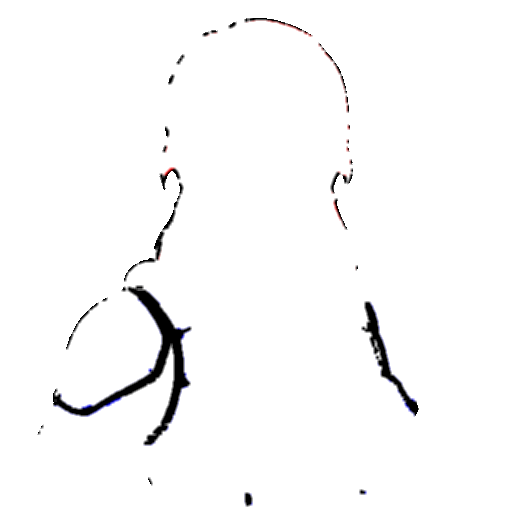
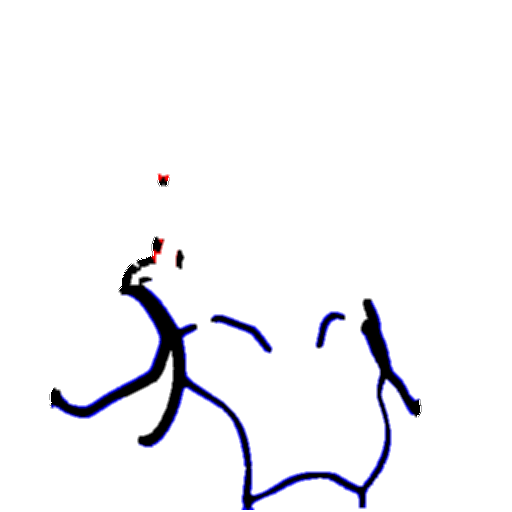
Hangar palette shows the real art; portrait masks close their trim and hair gaps
The palette's gun swatches draw the gun's atlas picture for the chosen
mount (GunView.draw_icon), and the tile and nozzle swatches are real ship
meshes (ShipMesh.swatch_mesh, nozzle_mesh), in the Weapons, Thrusters,
shape and Inventory rows. Without the art they keep their polygons.

Portrait masks: the painting's warm rim light round the silhouette is in
the trim's hue, so thin trim on the outline is left as paint or joins the
hair; trim also seeds from its saturated shadows and dim suit lines and
grows through its paler and deeper shades; every region takes in the
see-through outline it touches. ref_v follows the new masks.

diff --git a/tools/slice_sheets.py b/tools/slice_sheets.py
@@ -51,12 +51,15 @@ A portrait (A.7) is a painted character on chroma green, keyed and despilled lik
 but it keeps its whole cell (past `inset`), scaled to `px`: the prompts pin where the head sits in
 the cell, so the game can crop the head with one rect per sheet, and the body runs off the
 bottom edge, where a dialog stands it on the screen's. With `mask`, it also gets a recolour mask
-(`<id>_mask`): R = hair, G = eyes, B = outfit, A = trim, each the pixels whose hue falls in that
-key hue's band (MASK_BANDS; the hair's also takes the pale strands next to it), grown by a pixel and softened so no key-coloured fringe survives at
-an edge. The eyes are only looked for inside `mask.eyes` (a box, in fractions of the cell),
-because a suit's cyan rim light is the irises' hue (and outside it, that hue is the outfit's);
-the box also takes in the brows, which are redder than the hair but share the lips' hue. The report gives each region's mean value,
-which the game's shader needs to keep the shading (visuals.json vis.portraits `ref_v`).
+(`<id>_mask`): R = hair, G = eyes, B = outfit, A = trim. Each region is the pixels whose hue falls
+in its key hue's band (MASK_BANDS, plus MASK_SEEDS for its deep and dim paint), grown through the
+shades of it the band misses (MASK_GROW) and over the see-through outline it touches, then by a
+pixel and softened, so no key-coloured fringe survives at an edge. The eyes are only looked for
+inside `mask.eyes` (a box, in fractions of the cell), because a suit's cyan rim light is the
+irises' hue (outside it, that hue is the outfit's); the box also takes in the brows, which are
+redder than the hair but share the lips' hue. The painting's warm rim light round the silhouette
+is in the trim's hue too, so thin trim on the outline isn't trim (RIM_PX). The report gives each
+region's mean value, which the game's shader needs to keep the shading (visuals.json vis.portraits `ref_v`).
 
 Atlas layout (the ship shader's contract): a column per entry of a row, a row per variant, every
 cell padded by cell_px / 16 on each side (wrapped for materials, edge-extended otherwise), so
@@ -92,7 +95,17 @@ GUN_TIP_X = 248           # and the barrel's tip
 MASK_BANDS = {"hair": (285, 340, 0.35), "eyes": (160, 215, 0.15), "outfit": (185, 255, 0.30),
               "trim": (40, 68, 0.55)}
 BROW_HUE = 360            # inside the eye box the hair band reaches this far: the brows are redder
-HAIR_PALE = (0.08, 6)     # pale strands in the hair's hue join it: min saturation, within this many px
+# What a region grows through from its band, up to MASK_GROW_PX: (hue from, hue to, min saturation).
+# Skin (hue ~10-30, saturation ~0.5) passes none of them. Hair: its pale strands and its warm rim
+# light, which reaches the lips' hue but never touches them. Trim: its pale highlights and its
+# deep orange shadows.
+MASK_GROW = {"hair": [(280, 360, 0.08)], "trim": [(40, 75, 0.2), (30, 40, 0.35), (25, 30, 0.7), (15, 25, 0.85)]}
+MASK_GROW_PX = 10
+RIM_PX = 4                # trim thinner than ~5 px this close to the silhouette's edge is rim light
+# More seeds for a region besides its band, where its paint goes deep or dim: (hue from, hue to,
+# min saturation, max value). Trim: its saturated orange shadows, and its dim lines in a suit's
+# shade (capped in value, so a skin highlight in the same hues stays skin).
+MASK_SEEDS = {"trim": [(30, 40, 0.75, 1.0), (40, 68, 0.3, 0.8)]}
 
 
 def luma(rgb: np.ndarray) -> np.ndarray:
@@ -322,29 +335,59 @@ def grow(m: np.ndarray) -> np.ndarray:
     return np.max([p[dy:dy + m.shape[0], dx:dx + m.shape[1]] for dy in range(3) for dx in range(3)], axis=0)
 
 
+def shrink(m: np.ndarray) -> np.ndarray:
+    """`m` eroded by one pixel (8-connected): the opposite of grow()."""
+    return 1.0 - grow(1.0 - m)
+
+
 def portrait_mask(rgba: np.ndarray, eyes: list[float], report: list[str], ident: str) -> np.ndarray:
     """The recolour mask of a cut portrait (RGBA 0..255): a channel per MASK_BANDS region."""
     h, s, v = hsv(rgba[..., :3])
     solid = rgba[..., 3] > 127
+    seen = rgba[..., 3] > 0
     size = rgba.shape[0]
     x0, y0, x1, y1 = (round(f * size) for f in eyes)
     in_eyes = np.zeros_like(solid)
     in_eyes[y0:y1, x0:x1] = True
-    channels, means = [], []
+    near = lambda m, px: _grown(m, px) > 0
+    hards, means = {}, []
     for region, (h0, h1, smin) in MASK_BANDS.items():
         hard = (h >= h0) & (h <= h1) & (s >= smin) & (v > 0.1) & solid
         if region == "hair":
             hard |= in_eyes & (h > h1) & (h <= BROW_HUE) & (s >= smin) & (v > 0.1) & solid
-            near = hard.astype(np.float32)
-            for _ in range(HAIR_PALE[1]):
-                near = grow(near)
-            hard |= (near > 0) & (h >= h0) & (h <= h1) & (s >= HAIR_PALE[0]) & solid
+        for g0, g1, gmin, vmax in MASK_SEEDS.get(region, []):
+            hard |= (h >= g0) & (h <= g1) & (s >= gmin) & (v > 0.1) & (v <= vmax) & solid
         # The irises' band overlaps the outfit's cyan rim light, so the eye box decides which.
         hard &= in_eyes if region == "eyes" else ~in_eyes if region == "outfit" else True
+        passable = np.zeros_like(solid)
+        for g0, g1, gmin in MASK_GROW.get(region, []):
+            passable |= (h >= g0) & (h <= g1) & (s >= gmin) & solid
+        for _ in range(MASK_GROW_PX):
+            hard |= near(hard, 1) & passable
+        hards[region] = hard
+    # The painting's warm rim light is a thin gold line round the silhouette, in the trim's hue.
+    # Trim that thin on the outline is rim light: next to the hair it's the hair's, elsewhere it
+    # keeps its paint.
+    trim = hards["trim"].astype(np.float32)
+    opened = grow(grow(shrink(shrink(trim)))) > 0
+    rim = hards["trim"] & ~opened & near(~solid, RIM_PX)
+    hards["trim"] &= ~rim
+    hards["hair"] |= rim & near(hards["hair"], RIM_PX)
+    channels = []
+    for region, hard in hards.items():
         means.append(float(v[hard].mean()) if hard.any() else 0.0)
-        channels.append(box_blur3(grow(hard.astype(np.float32))) * solid)
+        # And the see-through outline next to it, which still shows its key colour.
+        hard = hard | (seen & ~solid & near(hard, 2))
+        channels.append(box_blur3(grow(hard.astype(np.float32))) * seen)
     report.append(f"  {ident + '_mask':20s} mask      ref_v [{', '.join(f'{m:.2f}' for m in means)}]")
     return np.dstack(channels) * 255
+
+
+def _grown(m: np.ndarray, px: int) -> np.ndarray:
+    out = m.astype(np.float32)
+    for _ in range(px):
+        out = grow(out)
+    return out
 
 
 def cut_portrait(rgb: np.ndarray, options: dict, report: list[str], ident: str) -> np.ndarray:

diff --git a/Docs/PLAN.md b/Docs/PLAN.md
@@ -1708,10 +1708,10 @@ off, or note what broke). Everything here passed on the PC in previews and drive
 | A.1 | Tile materials: Hull, Armor, Shield, Hardpoint (greyscale and seamless) + Core design. **First sheet, so it also carries the slicer port**: AOD's `slice_ui_sheets.py` → `tools/slice_sheets.py` with a per-sheet config (grid, key colour, glow list), proven on this sheet. ⚠ Materials are sampled in ship space (one repeat per U), so a Large hex core shows the canopy several times; the **core design needs tile-local UVs**, unlike the seamless materials. ✅ 2026-10-26: `tools/slice_sheets.py` (flood-fill key, cut inside the gutters, seams evened) packs `art_src/sheets.json`'s cells into `assets/tiles/tile_atlas.png` (a column per type, 3 variants, padded for mipmaps) and `tile_damage.png` (an overlay per wear step, in place of the procedural cracks). The core is textured in its own box, so its cockpit appears once. Gemini ignored a 15-item list but followed one kind per row. | 1 sheet (5 cells + 2 variants each) | 2.4 |
 | A.2 | ✅ 2026-10-27. **Thrusters**: one Gemini sheet, one type per row (`ART_PROMPT.md` `parts_thrusters`). The slicer's `part` kind keys chroma green, takes the grey from R and B (the spill is all in G) and stretches the art over the cell; its cut-out goes in the atlas's B (1 = cut out, so the placeholder stays solid). The thruster column holds pulse, jet and ion in its three rows. `ShipMesh._add_part` draws a nozzle as its whole footprint box in the nozzle's own frame, so one picture serves every size and side, and the shader cuts it to the art's silhouette with no bevel. The trim band shows the level (L1–3 bronze, silver, gold; visuals.json). No S/M/L cells: a nozzle is the same shape at every size. ⚠ A canvas_item fragment can't `return`, and the headless tests never compile the shader, so a shader change needs a preview. | 1 sheet (12 cells) | 3.6 |
 | A.3 | ✅ 2026-10-27. **Weapons**: one painted **gun head** per type (housing and barrels, pointing right) from three runs of `ART_PROMPT.md` `parts_guns`, turning as a whole about the housing's centre on every mount. The slicer's `gun` kind finds the housing from the art's left edge and fits each gun so its barrel tip lands at a fixed x; `GunView._draw_head` scales it so the tip meets the data's muzzle, and tints the trim band (HE red, AP amber). The code-drawn guns stay as the fallback when the atlas is missing. Spare designs are catalogued for v2's factions. ⚠ Fit by the tip, not the housing: Gemini's barrels run short, and a flash floating off the end looks broken. Flak and seeker were re-rolled as A.3b (`parts_guns_flak_seeker`). **A.3c, side guns** (owner, 2026-10-27, so mounts read at a glance in the hangar): an image edit of the turrets in use (`ref_turrets.png`) swapped each round base for a hull bracket; the atlas has a row per mount type (turret, fixed, swivel) and `GunView` picks by `mount_type`. ⚠ To get a variant of existing art, give Gemini the art and ask for one change: describing "side-mounted" from scratch got side views of handheld guns, five times. | 1 sheet, run ×3 | 4.5 |
-| A.4 | ✅ 2026-10-27. **Icons**: one sheet (`ART_PROMPT.md` `icons_main`, run 2 of 3): resources and GC, the HUD symbols (fire, switch, pause, boost) and the ×2–×5 power-up badges, one 128 px PNG each in `assets/icons/` (the slicer's `sprite` kind and `files` layout), as `vis.icon.<id>`. In use: pickups in flight, FIRE, SWITCH and Pause; boost and the badges wait for 8.3. **Tile-type, weapon and thruster icons reuse the part art** instead of their own sheet. ⚠ The flood-fill key keeps enclosed black on purpose (a badge's centre); a crosshair's or coil's hole needs `holes`. | 1 sheet, run ×3 | 4.7, 8.3 |
+| A.4 | ✅ 2026-10-27. **Icons**: one sheet (`ART_PROMPT.md` `icons_main`, run 2 of 3): resources and GC, the HUD symbols (fire, switch, pause, boost) and the ×2–×5 power-up badges, one 128 px PNG each in `assets/icons/` (the slicer's `sprite` kind and `files` layout), as `vis.icon.<id>`. In use: pickups in flight, FIRE, SWITCH and Pause; boost and the badges wait for 8.3. **Tile-type, weapon and thruster icons reuse the part art** instead of their own sheet: the hangar palette draws each gun's atlas picture for the chosen mount (`GunView.draw_icon`) and real tile and nozzle meshes (`ShipMesh.swatch_mesh`, `nozzle_mesh`). ⚠ The flood-fill key keeps enclosed black on purpose (a badge's centre); a crosshair's or coil's hole needs `holes`. | 1 sheet, run ×3 | 4.7, 8.3 |
 | A.5 | ✅ 2026-10-27. **Flashy arcade chrome** (`ART_PROMPT.md` A.5: panel run 2, header run 3, frame run 2, buttons run 1): 18 RGBA PNGs in `assets/ui/` (the slicer's `chrome` kind, cut tight at 2× the drawn size), as `vis.ui.<id>` with their 9-slice `slice`/`content` margins in screen units. `UiTheme` (`src/ui/ui_theme.gd`) makes them StyleBoxTextures: gold Buttons everywhere, `GoButton`/`DangerButton` (Fly, Test fight, Fly again / confirm), `ChromePanel` for the dialogs and pickers, `HeaderPanel`, `FramePanel`, sliders and progress bars. Preview: `dev_preview/art_chrome.tscn`. ⚠ Assets merges it into `ThemeDB.get_default_theme()`, because a theme on the root window doesn't reach past a CanvasLayer; and the art draws through `ImageTexture.set_size_override`, so 2× pixels sit in 1× margins. The LED rims tile (`tile`), since stretching smears the dots. Header and frame are in the theme but not yet on a screen. | 3 canvases + 1 sheet, run ×3 | 6.1 |
 | A.6 | Map icons: asteroid, beacon, station, shop, bar, hangar, 4 job types, story, skull, tick, you-are-here | 1 sheet | 9.3 |
-| A.7 | ✅ players and stand-ins 2026-10-27; NPCs to come. **Portraits** `[D3]` (§6.5), elbow height, 4 moods each: the male and female bases in a jacket and a space suit, and a generic villain and ally (`ART_PROMPT.md` A.7, one run each; the suits are image edits of the jackets). 512 px cells in `assets/portraits/` (the slicer's `portrait` kind keeps the whole cell, so `vis.portraits` gives one head crop per sheet), and for the players recolour masks in `masks/` (R hair, G eyes, B outfit, A trim, from hue bands). `PortraitView` draws them through `portrait_recolour.gdshader`, which takes each region's hue from the chosen colour and scales its value by the paint's over the region's mean (`ref_v`, reported by the slicer); `outfit` picks jacket or suit, `framing` the head crop or the whole picture, and `{"npc": id}` a stand-in. Preview: `dev_preview/art_portraits.tscn`. ⚠ The masks' `.import` must keep `fix_alpha_border=false` (`tests/ui/test_portraits.gd`). The irises are only looked for in an eye box per sheet, because the suit's cyan rim light is their hue. White hair keeps a faint warm edge on the woman's left strands; a hand mask if it shows. Then NPCs (bartender ×3, job givers, wife, bandit boss, allies) | 6 sheets, then ~3 | 6.2, 11.5 |
+| A.7 | ✅ players and stand-ins 2026-10-27; NPCs to come. **Portraits** `[D3]` (§6.5), elbow height, 4 moods each: the male and female bases in a jacket and a space suit, and a generic villain and ally (`ART_PROMPT.md` A.7, one run each; the suits are image edits of the jackets). 512 px cells in `assets/portraits/` (the slicer's `portrait` kind keeps the whole cell, so `vis.portraits` gives one head crop per sheet), and for the players recolour masks in `masks/` (R hair, G eyes, B outfit, A trim, from hue bands). `PortraitView` draws them through `portrait_recolour.gdshader`, which takes each region's hue from the chosen colour and scales its value by the paint's over the region's mean (`ref_v`, reported by the slicer); `outfit` picks jacket or suit, `framing` the head crop or the whole picture, and `{"npc": id}` a stand-in. Preview: `dev_preview/art_portraits.tscn`. ⚠ The masks' `.import` must keep `fix_alpha_border=false` (`tests/ui/test_portraits.gd`). The irises are only looked for in an eye box per sheet, because the suit's cyan rim light is their hue; and the painting's warm rim light round the silhouette is in the trim's hue, so thin trim on the outline is left as paint (or joins the hair). Owner's review fixed the trim's deep shadows and dim suit lines and the hair's edge (seeds and grow rules in the slicer). Then NPCs (bartender ×3, job givers, wife, bandit boss, allies) | 6 sheets, then ~3 | 6.2, 11.5 |
 | A.8 | Stations `[D9]`: 5 backdrops (wide, horizontally seamless), 5 exteriors (chroma green), interiors for hangar, shop and bar × 5 | 1 canvas each (~25) | 11.2 |
 | A.9 | Arena space backgrounds: nebula layers, tileable | 5 canvases | 3.5 (procedural first) |
 | A.10 | Asteroids: 3 kinds × 3 sizes + fragments, on chroma green | 1 sheet | 10.2 |
